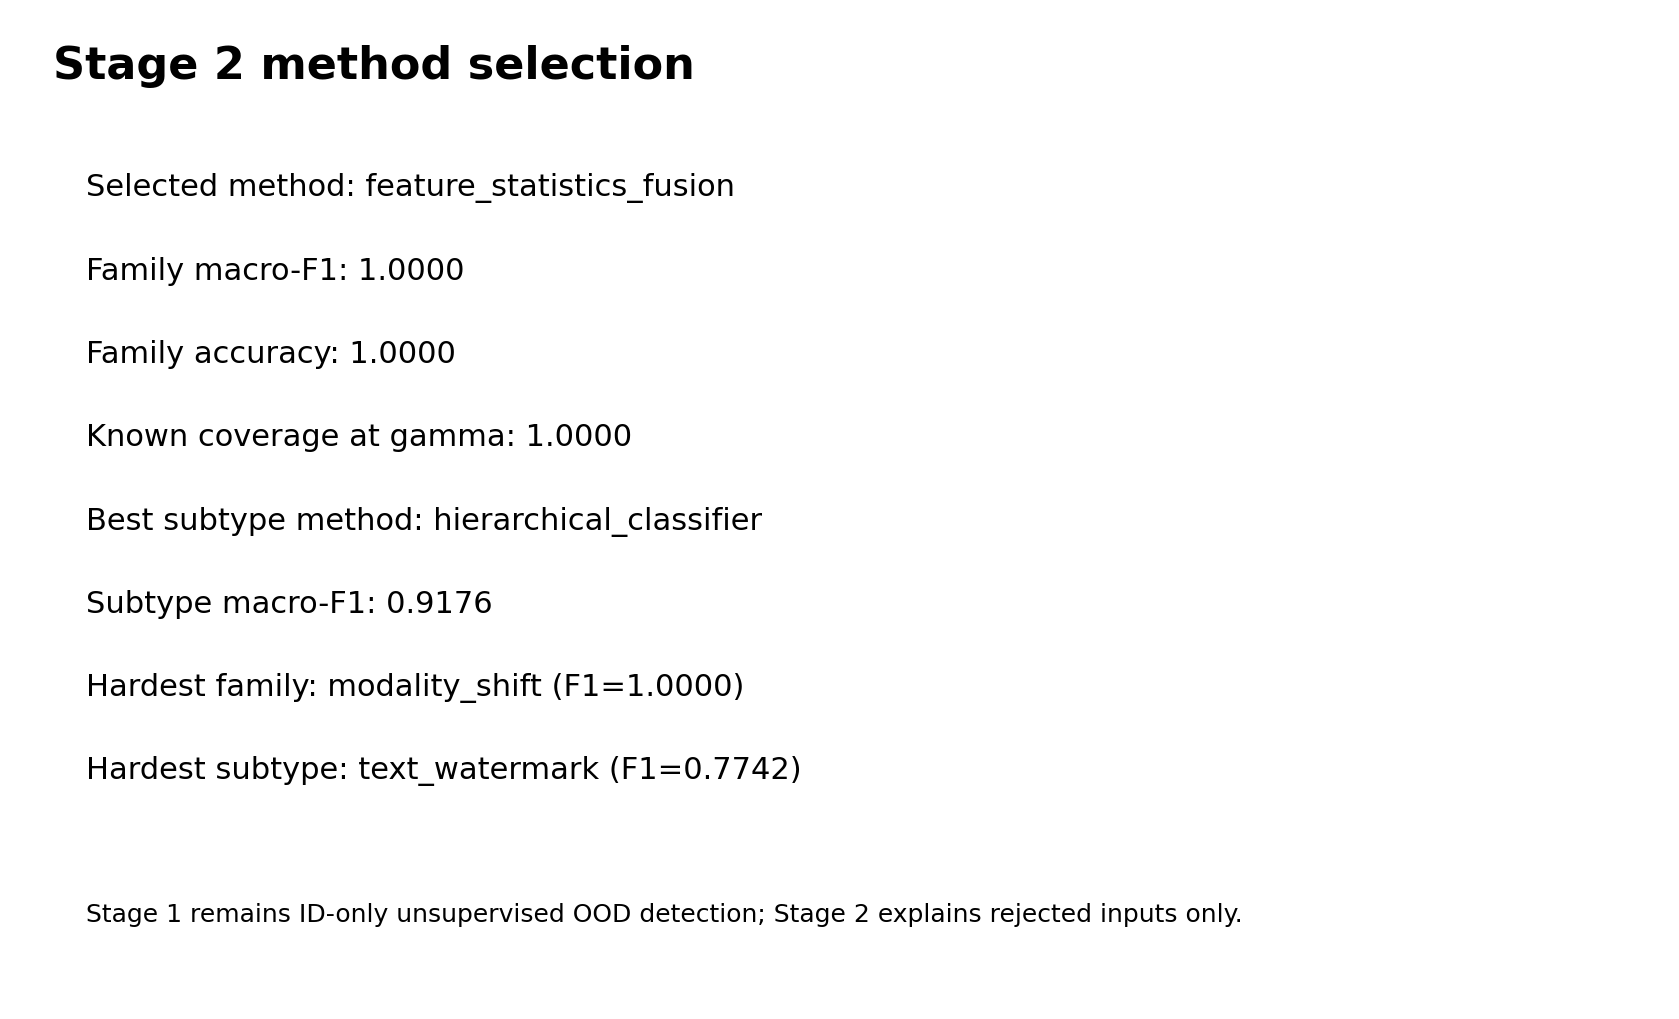
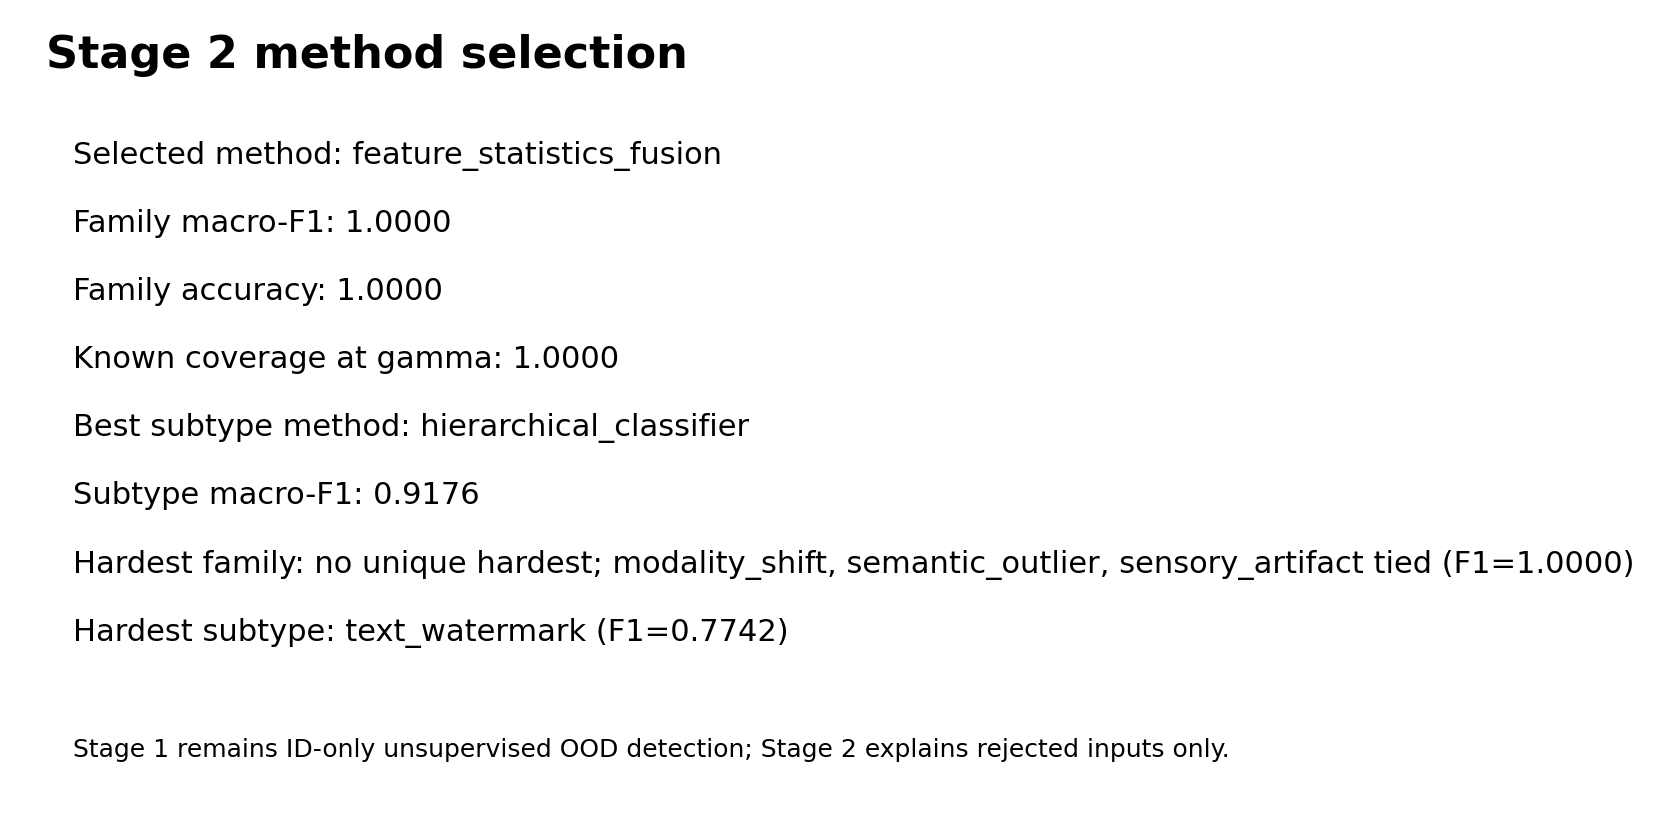
fix: align grouped stage2 evidence artifacts

diff --git a/scripts/generate_stage2_grouped_report.py b/scripts/generate_stage2_grouped_report.py
@@ -21,6 +21,7 @@ import matplotlib.pyplot as plt
 import numpy as np
 import pandas as pd
 
+from retinal_ood.evaluation.report_tables import dataframe_to_markdown
 from retinal_ood.reason_attribution.comparison import (
     ComparisonConfig,
     run_reason_attribution_method_comparison,
@@ -224,6 +225,7 @@ def finalize_grouped_report(
         selected_family=selected_family,
         selected_subtype=selected_subtype,
     )
+    _write_grouped_figure_index(figure_path)
     if snapshot_tree_hashes(legacy_path) != legacy_hashes_before:
         raise RuntimeError("Legacy row-level result files changed during grouped reporting")
 
@@ -457,9 +459,9 @@ all zero.
 ## Scope and limitations
 
 This optional supervised Stage 2 module explains a rejected input after Stage 1; it does not
-decide rejection and is not a disease classifier. The grouped protocol removes dependence between
-derived variants of the same synthetic parent within this benchmark, but remains a controlled,
-closed-set, synthetic-backed, non-clinical evaluation. Reason labels are likely rejection
+decide rejection and is not a disease classifier. The grouped protocol eliminates cross-partition parent overlap;
+variants remain dependent within a split because one parent contributes multiple transformed variants there.
+The evaluation remains controlled, closed-set, synthetic-backed, and non-clinical. Reason labels are likely rejection
 explanations, not clinical diagnoses. Parent grouping does not establish patient-independent or
 device-independent clinical generalisation.
 """
@@ -516,6 +518,34 @@ def _write_figures(
     paths.extend(_plot_method_comparison(family, subtype, figures_dir / FIGURE_FILENAMES[2]))
     paths.extend(_plot_legacy_comparison(comparison, figures_dir / FIGURE_FILENAMES[3]))
     return paths
+
+
+def _write_grouped_figure_index(figures_dir: Path) -> Path:
+    titles = {
+        FIGURE_FILENAMES[0]: "Parent-grouped family confusion matrix",
+        FIGURE_FILENAMES[1]: "Parent-grouped subtype confusion matrix",
+        FIGURE_FILENAMES[2]: "Parent-grouped Stage 2 method comparison",
+        FIGURE_FILENAMES[3]: "Legacy versus parent-grouped metric comparison",
+    }
+    rows = [
+        {
+            "path": f"{stem}.{extension}",
+            "format": extension.upper(),
+            "title": titles[stem],
+            "source": "reports/stage2_grouped",
+        }
+        for stem in FIGURE_FILENAMES
+        for extension in ("png", "pdf")
+    ]
+    index_path = figures_dir / "figure_index.md"
+    index_path.write_text(
+        "# Parent-grouped Stage 2 Figure Index\n\n"
+        + dataframe_to_markdown(pd.DataFrame(rows))
+        + "\n\nCompatibility figures generated by the comparison engine are retained in this directory, "
+        "but the four PNG/PDF pairs above are the primary grouped dissertation figures.\n",
+        encoding="utf-8",
+    )
+    return index_path
 
 
 def _plot_confusion(

diff --git a/tests/test_stage2_grouped_report.py b/tests/test_stage2_grouped_report.py
@@ -235,6 +235,8 @@ def test_report_package_uses_generated_evidence_and_preserves_legacy(tmp_path: P
         "Stage 1 remains unchanged",
         "closed-set",
         "non-clinical",
+        "eliminates cross-partition parent overlap",
+        "variants remain dependent within a split",
     ):
         assert phrase in summary
 
@@ -243,6 +245,11 @@ def test_report_package_uses_generated_evidence_and_preserves_legacy(tmp_path: P
         pdf = figures_dir / f"{figure}.pdf"
         assert png.stat().st_size > 1_000
         assert pdf.stat().st_size > 1_000
+
+    figure_index = (figures_dir / "figure_index.md").read_text(encoding="utf-8")
+    for figure in module.FIGURE_FILENAMES:
+        assert f"{figure}.png" in figure_index
+        assert f"{figure}.pdf" in figure_index
 
 
 def test_hardest_class_reports_a_tie_without_arbitrary_single_winner():
@@ -292,6 +299,8 @@ def test_committed_grouped_outputs_are_complete_and_consistent():
     assert str(selected["selected_subtype_validation_value"]) in summary
     assert "No unique hardest family" in summary
     assert "modality_shift, semantic_outlier, sensory_artifact" in summary
+    assert "eliminates cross-partition parent overlap" in summary
+    assert "variants remain dependent within a split" in summary
 
     comparison = pd.read_csv(out_dir / "legacy_vs_grouped_comparison.csv")
     expected_differences = (
@@ -305,3 +314,8 @@ def test_committed_grouped_outputs_are_complete_and_consistent():
     for figure in module.FIGURE_FILENAMES:
         assert (figures_dir / f"{figure}.png").stat().st_size > 1_000
         assert (figures_dir / f"{figure}.pdf").stat().st_size > 1_000
+
+    figure_index = (figures_dir / "figure_index.md").read_text(encoding="utf-8")
+    for figure in module.FIGURE_FILENAMES:
+        assert f"{figure}.png" in figure_index
+        assert f"{figure}.pdf" in figure_index

diff --git a/src/retinal_ood/reason_attribution/comparison.py b/src/retinal_ood/reason_attribution/comparison.py
@@ -1250,7 +1250,6 @@ def _plot_selection_summary(summary: pd.DataFrame, path: Path) -> Path:
         fontsize=9,
         transform=ax.transAxes,
     )
-    fig.tight_layout()
     fig.savefig(path, bbox_inches="tight", facecolor="white")
     plt.close(fig)
     return path
@@ -1389,8 +1388,14 @@ def _row_for_method(dataframe: pd.DataFrame, *, method: str, split: str) -> pd.S
 def _hardest_label(dataframe: pd.DataFrame, *, label_column: str) -> str:
     if dataframe.empty:
         return "not_available"
-    row = dataframe.sort_values("f1", ascending=True, kind="stable").iloc[0]
-    return f"{row[label_column]} (F1={float(row['f1']):.4f})"
+    minimum = float(dataframe["f1"].min())
+    tied = dataframe[
+        np.isclose(dataframe["f1"].astype(float), minimum, rtol=0.0, atol=1e-12)
+    ]
+    labels = sorted(tied[label_column].astype(str))
+    if len(labels) == 1:
+        return f"{labels[0]} (F1={minimum:.4f})"
+    return f"no unique hardest; {', '.join(labels)} tied (F1={minimum:.4f})"
 
 
 def _metric_lookup(dataframe: pd.DataFrame, method: str, split: str, column: str) -> float:

diff --git a/tests/test_reason_attribution_method_comparison.py b/tests/test_reason_attribution_method_comparison.py
@@ -351,6 +351,22 @@ def test_subtype_can_be_disabled_and_hierarchy_uses_predicted_family(tmp_path: P
     assert predictions.subtype.tolist() == ["colour_fundus", "colour_fundus", "colour_fundus"]
 
 
+def test_compatibility_summary_reports_tied_hardest_classes_without_idxmin_bias():
+    per_class = pd.DataFrame(
+        {
+            "family": ["modality_shift", "sensory_artifact", "semantic_outlier"],
+            "f1": [1.0, 1.0, 1.0],
+        }
+    )
+
+    label = comparison_module._hardest_label(per_class, label_column="family")
+
+    assert label == (
+        "no unique hardest; modality_shift, semantic_outlier, sensory_artifact "
+        "tied (F1=1.0000)"
+    )
+
+
 def test_subtype_disabled_writes_empty_canonical_confusion_only(tmp_path: Path):
     train_manifest, val_manifest, test_manifest = _write_reason_manifests(tmp_path)
     result = run_reason_attribution_method_comparison(

diff --git a/reports/stage2_grouped/family_metrics_by_method.md b/reports/stage2_grouped/family_metrics_by_method.md
@@ -2,19 +2,19 @@
 
 | method | split | status | feature_set | estimator | complexity | family_accuracy | family_argmax_accuracy | family_macro_f1 | family_balanced_accuracy | unknown_threshold | known_coverage_at_gamma | unknown_rate_at_gamma | accuracy_excluding_unknown | train_seconds |
 | --- | --- | --- | --- | --- | --- | --- | --- | --- | --- | --- | --- | --- | --- | --- |
-| image_statistics_logreg | val | ok | statistics | logistic_regression | 1 | 0.9167 | 0.9167 | 0.9121 | 0.9411 | 0.5000 | 1.0000 | 0.0000 | 0.9167 | 0.1028 |
-| global_feature_knn | val | ok | global | knn | 3 | 0.9452 | 0.9452 | 0.9391 | 0.9486 | 0.5000 | 1.0000 | 0.0000 | 0.9452 | 0.0197 |
-| nearest_centroid | val | ok | global | nearest_centroid | 2 | 0.8286 | 0.8310 | 0.8110 | 0.8422 | 0.5000 | 0.9952 | 0.0048 | 0.8325 | 0.0228 |
-| logistic_regression | val | ok | global | logistic_regression | 3 | 0.9643 | 0.9643 | 0.9601 | 0.9714 | 0.5000 | 1.0000 | 0.0000 | 0.9643 | 5.3151 |
-| linear_svm | val | ok | global | linear_svm | 4 | 0.9833 | 0.9857 | 0.9846 | 0.9806 | 0.5000 | 0.9976 | 0.0024 | 0.9857 | 9.1076 |
-| random_forest_or_gradient_boosting | val | ok | global | random_forest | 5 | 0.9810 | 0.9857 | 0.9924 | 0.9850 | 0.5000 | 0.9810 | 0.0190 | 1.0000 | 4.5960 |
-| feature_statistics_fusion | val | ok | fusion | logistic_regression | 4 | 0.9929 | 0.9929 | 0.9925 | 0.9919 | 0.5000 | 1.0000 | 0.0000 | 0.9929 | 4.2372 |
-| hierarchical_classifier | val | ok | fusion | hierarchical_logistic | 6 | 0.9929 | 0.9929 | 0.9925 | 0.9919 | 0.5000 | 1.0000 | 0.0000 | 0.9929 | 5.8497 |
-| image_statistics_logreg | test | ok | statistics | logistic_regression | 1 | 0.9452 | 0.9452 | 0.9405 | 0.9625 | 0.5000 | 1.0000 | 0.0000 | 0.9452 | 0.1028 |
-| global_feature_knn | test | ok | global | knn | 3 | 0.9714 | 0.9714 | 0.9676 | 0.9592 | 0.5000 | 1.0000 | 0.0000 | 0.9714 | 0.0197 |
-| nearest_centroid | test | ok | global | nearest_centroid | 2 | 0.8024 | 0.8048 | 0.7735 | 0.7875 | 0.5000 | 0.9976 | 0.0024 | 0.8043 | 0.0228 |
-| logistic_regression | test | ok | global | logistic_regression | 3 | 1.0000 | 1.0000 | 1.0000 | 1.0000 | 0.5000 | 1.0000 | 0.0000 | 1.0000 | 5.3151 |
-| linear_svm | test | ok | global | linear_svm | 4 | 0.9976 | 0.9976 | 0.9963 | 0.9967 | 0.5000 | 1.0000 | 0.0000 | 0.9976 | 9.1076 |
-| random_forest_or_gradient_boosting | test | ok | global | random_forest | 5 | 0.9976 | 1.0000 | 0.9979 | 0.9958 | 0.5000 | 0.9976 | 0.0024 | 1.0000 | 4.5960 |
-| feature_statistics_fusion | test | ok | fusion | logistic_regression | 4 | 1.0000 | 1.0000 | 1.0000 | 1.0000 | 0.5000 | 1.0000 | 0.0000 | 1.0000 | 4.2372 |
-| hierarchical_classifier | test | ok | fusion | hierarchical_logistic | 6 | 1.0000 | 1.0000 | 1.0000 | 1.0000 | 0.5000 | 1.0000 | 0.0000 | 1.0000 | 5.8497 |
+| image_statistics_logreg | val | ok | statistics | logistic_regression | 1 | 0.9167 | 0.9167 | 0.9121 | 0.9411 | 0.5000 | 1.0000 | 0.0000 | 0.9167 | 0.1111 |
+| global_feature_knn | val | ok | global | knn | 3 | 0.9452 | 0.9452 | 0.9391 | 0.9486 | 0.5000 | 1.0000 | 0.0000 | 0.9452 | 0.0165 |
+| nearest_centroid | val | ok | global | nearest_centroid | 2 | 0.8286 | 0.8310 | 0.8110 | 0.8422 | 0.5000 | 0.9952 | 0.0048 | 0.8325 | 0.0162 |
+| logistic_regression | val | ok | global | logistic_regression | 3 | 0.9643 | 0.9643 | 0.9601 | 0.9714 | 0.5000 | 1.0000 | 0.0000 | 0.9643 | 6.1128 |
+| linear_svm | val | ok | global | linear_svm | 4 | 0.9833 | 0.9857 | 0.9846 | 0.9806 | 0.5000 | 0.9976 | 0.0024 | 0.9857 | 9.3523 |
+| random_forest_or_gradient_boosting | val | ok | global | random_forest | 5 | 0.9810 | 0.9857 | 0.9924 | 0.9850 | 0.5000 | 0.9810 | 0.0190 | 1.0000 | 4.5095 |
+| feature_statistics_fusion | val | ok | fusion | logistic_regression | 4 | 0.9929 | 0.9929 | 0.9925 | 0.9919 | 0.5000 | 1.0000 | 0.0000 | 0.9929 | 4.9431 |
+| hierarchical_classifier | val | ok | fusion | hierarchical_logistic | 6 | 0.9929 | 0.9929 | 0.9925 | 0.9919 | 0.5000 | 1.0000 | 0.0000 | 0.9929 | 7.3968 |
+| image_statistics_logreg | test | ok | statistics | logistic_regression | 1 | 0.9452 | 0.9452 | 0.9405 | 0.9625 | 0.5000 | 1.0000 | 0.0000 | 0.9452 | 0.1111 |
+| global_feature_knn | test | ok | global | knn | 3 | 0.9714 | 0.9714 | 0.9676 | 0.9592 | 0.5000 | 1.0000 | 0.0000 | 0.9714 | 0.0165 |
+| nearest_centroid | test | ok | global | nearest_centroid | 2 | 0.8024 | 0.8048 | 0.7735 | 0.7875 | 0.5000 | 0.9976 | 0.0024 | 0.8043 | 0.0162 |
+| logistic_regression | test | ok | global | logistic_regression | 3 | 1.0000 | 1.0000 | 1.0000 | 1.0000 | 0.5000 | 1.0000 | 0.0000 | 1.0000 | 6.1128 |
+| linear_svm | test | ok | global | linear_svm | 4 | 0.9976 | 0.9976 | 0.9963 | 0.9967 | 0.5000 | 1.0000 | 0.0000 | 0.9976 | 9.3523 |
+| random_forest_or_gradient_boosting | test | ok | global | random_forest | 5 | 0.9976 | 1.0000 | 0.9979 | 0.9958 | 0.5000 | 0.9976 | 0.0024 | 1.0000 | 4.5095 |
+| feature_statistics_fusion | test | ok | fusion | logistic_regression | 4 | 1.0000 | 1.0000 | 1.0000 | 1.0000 | 0.5000 | 1.0000 | 0.0000 | 1.0000 | 4.9431 |
+| hierarchical_classifier | test | ok | fusion | hierarchical_logistic | 6 | 1.0000 | 1.0000 | 1.0000 | 1.0000 | 0.5000 | 1.0000 | 0.0000 | 1.0000 | 7.3968 |

diff --git a/reports/dissertation_figures/stage2_grouped/figure_index.md b/reports/dissertation_figures/stage2_grouped/figure_index.md
@@ -1,13 +1,14 @@
-# Reason Attribution Method Comparison Figure Index
+# Parent-grouped Stage 2 Figure Index
 
-| path | title |
-| --- | --- |
-| figure_reason_method_family_macro_f1.png | Family macro-F1 comparison |
-| figure_reason_method_accuracy_macro_f1.png | Accuracy and macro-F1 comparison |
-| figure_reason_method_per_family_f1.png | Per-family F1 heatmap |
-| figure_reason_method_per_subtype_f1.png | Per-subtype F1 heatmap |
-| figure_best_reason_family_confusion_matrix.png | Best family method confusion matrix |
-| figure_best_subtype_confusion_matrix.png | Best subtype method confusion matrix |
-| figure_unknown_threshold_tradeoff.png | Unknown-threshold coverage trade-off |
-| figure_reason_method_selection_summary.png | Stage 2 method selection summary |
-| figure_two_stage_updated_pipeline.png | Two-stage pipeline with selected Stage 2 method |
+| path | format | title | source |
+| --- | --- | --- | --- |
+| figure_grouped_family_confusion_matrix.png | PNG | Parent-grouped family confusion matrix | reports/stage2_grouped |
+| figure_grouped_family_confusion_matrix.pdf | PDF | Parent-grouped family confusion matrix | reports/stage2_grouped |
+| figure_grouped_subtype_confusion_matrix.png | PNG | Parent-grouped subtype confusion matrix | reports/stage2_grouped |
+| figure_grouped_subtype_confusion_matrix.pdf | PDF | Parent-grouped subtype confusion matrix | reports/stage2_grouped |
+| figure_grouped_stage2_method_comparison.png | PNG | Parent-grouped Stage 2 method comparison | reports/stage2_grouped |
+| figure_grouped_stage2_method_comparison.pdf | PDF | Parent-grouped Stage 2 method comparison | reports/stage2_grouped |
+| figure_legacy_vs_grouped_stage2_metrics.png | PNG | Legacy versus parent-grouped metric comparison | reports/stage2_grouped |
+| figure_legacy_vs_grouped_stage2_metrics.pdf | PDF | Legacy versus parent-grouped metric comparison | reports/stage2_grouped |
+
+Compatibility figures generated by the comparison engine are retained in this directory, but the four PNG/PDF pairs above are the primary grouped dissertation figures.

diff --git a/reports/stage2_grouped/summary.md b/reports/stage2_grouped/summary.md
@@ -30,8 +30,8 @@ all zero.
 ## Scope and limitations
 
 This optional supervised Stage 2 module explains a rejected input after Stage 1; it does not
-decide rejection and is not a disease classifier. The grouped protocol removes dependence between
-derived variants of the same synthetic parent within this benchmark, but remains a controlled,
-closed-set, synthetic-backed, non-clinical evaluation. Reason labels are likely rejection
+decide rejection and is not a disease classifier. The grouped protocol eliminates cross-partition parent overlap;
+variants remain dependent within a split because one parent contributes multiple transformed variants there.
+The evaluation remains controlled, closed-set, synthetic-backed, and non-clinical. Reason labels are likely rejection
 explanations, not clinical diagnoses. Parent grouping does not establish patient-independent or
 device-independent clinical generalisation.

diff --git a/reports/stage2_grouped/best_method_summary.md b/reports/stage2_grouped/best_method_summary.md
@@ -17,7 +17,7 @@
 | best_subtype_validation_macro_f1 | 0.9059 |
 | best_subtype_test_macro_f1 | 0.9176 |
 | subtype_macro_f1_delta_vs_pr24_baseline | 0.2452 |
-| hardest_family | modality_shift (F1=1.0000) |
+| hardest_family | no unique hardest; modality_shift, semantic_outlier, sensory_artifact tied (F1=1.0000) |
 | hardest_subtype | text_watermark (F1=0.7742) |
 | selected_final_method | feature_statistics_fusion |
 | selection_rationale | Selected by validation reason-family macro-F1, with simpler methods preferred on ties. |
